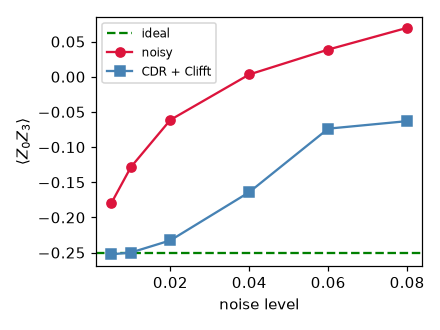
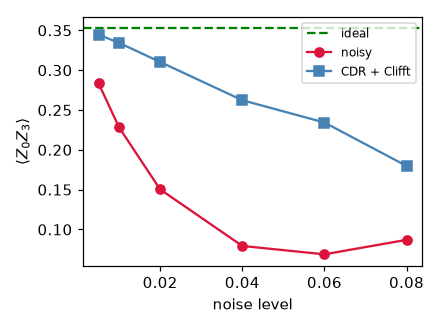
Rebuild CDR example in pure Cirq per review feedback
Per review, build the ansatz directly in Cirq in a {H, Rz, CNOT} gateset (only
non-Cliffords are Rz, per the user guide) instead of transpiling with Qiskit,
and drop the IBM framing. Use a 4-layer circuit, where the linear CDR fit is
well-conditioned, and add a note on the regime where that assumption holds.
Regenerate the thumbnail.

diff --git a/docs/source/examples/cdr_demo.md b/docs/source/examples/cdr_demo.md
@@ -12,7 +12,7 @@ kernelspec:
   name: python3
 ---
 
-```{tags} cdr, clifft, qiskit, cirq, intermediate
+```{tags} cdr, clifft, cirq, intermediate
 ```
 
 # Clifford data regression with the Clifft near-Clifford simulator
@@ -20,9 +20,8 @@ kernelspec:
 Clifford data regression (CDR) is an error mitigation technique that learns a
 correction from noisy circuit outputs to their ideal values by training on
 classically simulable near-Clifford circuits. In this tutorial, we run CDR
-end-to-end on a hardware-native variational circuit, using the Clifft
-near-Clifford simulator to provide the ideal training data needed for the
-regression.
+end-to-end on a layered variational circuit, using the Clifft near-Clifford
+simulator to provide the ideal training data needed for the regression.
 
 CDR occupies a different niche from other error mitigation methods. Zero-noise
 extrapolation (ZNE) estimates the zero-noise answer by executing the same circuit
@@ -38,68 +37,64 @@ natural fit for generating the reference data that CDR requires.
 
 ## Setup
 
-In addition to Mitiq and Cirq, this tutorial uses Qiskit (to build and transpile
-a hardware-native circuit) and Clifft (to simulate the near-Clifford training
-circuits used by CDR).
+In addition to Mitiq and Cirq, this tutorial uses Clifft to simulate the
+near-Clifford training circuits used by CDR.
 
 ```{code-cell}
 import cirq
 import clifft
 import matplotlib.pyplot as plt
 import numpy as np
-from qiskit import QuantumCircuit, transpile
 
 from mitiq import Observable, PauliString, cdr
-from mitiq.interface import convert_to_mitiq
 from mitiq.interface.mitiq_cirq import compute_density_matrix
 from mitiq.zne.scaling import fold_global
 
 N_QUBITS = 4
-N_LAYERS = 6
+N_LAYERS = 4
 NOISE = 0.02
 ```
 
 ## The circuit we want to run
 
-Our target circuit is a hardware-efficient ansatz consisting of alternating
-layers of single-qubit $R_y(\theta)$ rotations and a nearest-neighbor CNOT
-ladder. We use $R_y$ rotations because they directly affect measurements of
-$Z$-type observables: rotating a qubit around the $y$-axis changes its projection
-onto the $z$-axis, making observables such as $\langle Z_0 Z_3 \rangle$ sensitive
-to the variational parameters. The CNOT ladder then spreads those local rotations
-into multi-qubit correlations across the device.
+Our target circuit is a hardware-efficient ansatz: alternating layers of
+single-qubit rotations and a nearest-neighbor CNOT ladder. We build each rotation
+as $H \cdot R_z(\theta) \cdot H$, which rotates the qubit so that measurements of
+$Z$-type observables such as $\langle Z_0 Z_3 \rangle$ depend on the variational
+angle $\theta$. The CNOT ladder then spreads those local rotations into
+multi-qubit correlations across the register.
 
-To connect this abstract circuit to real hardware, we transpile it into IBM's
-native gate set `{rz, sx, cx}`. This decomposition exposes an important
-structural feature: after transpilation, the arbitrary $R_y$ rotations have been
-rewritten into sequences of `rz` and `sx` gates, while entanglement remains in
-the `cx` gates. Since `sx` (the $\sqrt{X}$ gate) and `cx` are Clifford
-operations, the only generic non-Clifford content left in the circuit resides in
-the continuous `rz` rotation angles. That separation is the key idea behind this
-tutorial: it is what allows CDR to generate near-Clifford training circuits by
-modifying a small number of non-Clifford rotations, and it is precisely the
-regime where a near-Clifford simulator such as Clifft can provide a substantial
-advantage over general-purpose simulation methods.
+CDR requires the circuit to be compiled into a gateset whose only non-Clifford
+gates are single-qubit $R_z$ rotations (see the [CDR guide](../guide/cdr.md)). We
+build the ansatz directly in such a gateset: the Hadamards and CNOTs are Clifford,
+so the only non-Clifford content lives in the continuous `rz` rotation angles.
+That separation is the key idea behind this tutorial — it is what lets CDR
+generate near-Clifford training circuits by adjusting a small number of
+non-Clifford rotations, and it is precisely the regime where a near-Clifford
+simulator such as Clifft provides an advantage over general-purpose simulation.
 
 ```{code-cell}
-def build_ansatz(n_qubits, n_layers, angles):
-    qc = QuantumCircuit(n_qubits)
+def build_ansatz(qubits, n_layers, angles):
+    circuit = cirq.Circuit()
     for layer in range(n_layers):
-        for q in range(n_qubits):
-            qc.ry(angles[layer][q], q)
-        for q in range(n_qubits - 1):
-            qc.cx(q, q + 1)
-    return qc
+        for i, q in enumerate(qubits):
+            circuit.append([cirq.H(q), cirq.rz(angles[layer][i]).on(q), cirq.H(q)])
+        for i in range(len(qubits) - 1):
+            circuit.append(cirq.CNOT(qubits[i], qubits[i + 1]))
+    return circuit
 
 
+qubits = cirq.LineQubit.range(N_QUBITS)
 rng = np.random.default_rng(42)
 angles = rng.uniform(-np.pi / 2, np.pi / 2, size=(N_LAYERS, N_QUBITS))
-qc = build_ansatz(N_QUBITS, N_LAYERS, angles)
-native = transpile(qc, basis_gates=["rz", "sx", "cx"], optimization_level=1)
-cirq_circuit = convert_to_mitiq(native)[0]
+cirq_circuit = build_ansatz(qubits, N_LAYERS, angles)
 
-print("logical gate counts:", dict(qc.count_ops()))
-print("native gate counts: ", dict(native.count_ops()))
+n_total = len(list(cirq_circuit.all_operations()))
+n_rz = sum(
+    1 for op in cirq_circuit.all_operations() if isinstance(op.gate, cirq.ZPowGate)
+)
+print(f"{n_total} gates total; {n_rz} are non-Clifford Rz rotations")
+print("(the H and CNOT gates are Clifford)")
 ```
 
 ## The observable, and the problem that noise causes
@@ -115,9 +110,9 @@ using two executors: a noisy executor with depolarizing noise and an ideal
 executor with noise disabled. Both return density matrices (hence the
 `-> np.ndarray` type hints), allowing Mitiq to compute expectation values
 directly. The output below shows the effect of noise clearly: the ideal
-correlation is substantially suppressed, with the noisy value retaining only a
-small fraction of the original signal. Recovering that lost correlation is
-exactly the task that CDR will take on in the next section.
+correlation is substantially suppressed, with the noisy value retaining only part
+of the original signal. Recovering that lost correlation is exactly the task that
+CDR will take on in the next section.
 
 ```{code-cell}
 obs = Observable(PauliString("ZIIZ"))
@@ -149,11 +144,11 @@ simulator for every training circuit, we can exploit the fact that these circuit
 live in a regime where specialized algorithms are particularly effective. Clifft
 is a simulator designed for exactly this setting {cite}`Chase_2026_Clifft`.
 
-To use Clifft, we first translate the transpiled Cirq circuit into Clifft's
-text-based circuit format. Since our native gate set consists only of `rz`, `sx`,
-and `cx`, the conversion is straightforward. Two implementation details are worth
-noting. First, Clifft expresses $R_Z$ rotations in half-turn units rather than
-radians; fortunately, Cirq already stores this quantity as `gate.exponent` for
+To use Clifft, we first translate the Cirq circuit into Clifft's text-based
+circuit format. Since our gateset consists only of `H`, `Rz`, and `CNOT`, the
+conversion is straightforward. Two implementation details are worth noting.
+First, Clifft expresses $R_Z$ rotations in half-turn units rather than radians;
+fortunately, Cirq already stores this quantity as `gate.exponent` for
 `ZPowGate`s. Second, Clifft and Cirq use opposite qubit-ordering conventions when
 constructing statevectors, so after simulation we reverse the tensor axes to
 match Cirq's ordering. These are purely representational differences—the
@@ -170,10 +165,10 @@ def to_clifft_text(circuit, qubits):
     lines = []
     for op in circuit.all_operations():
         g, qs = op.gate, op.qubits
-        if isinstance(g, cirq.ZPowGate):
+        if isinstance(g, cirq.HPowGate) and abs(g.exponent - 1) < 1e-9:
+            lines.append(f"H {idx[qs[0]]}")
+        elif isinstance(g, cirq.ZPowGate):
             lines.append(f"R_Z({g.exponent}) {idx[qs[0]]}")
-        elif isinstance(g, cirq.XPowGate) and abs(g.exponent - 0.5) < 1e-9:
-            lines.append(f"SQRT_X {idx[qs[0]]}")
         elif g == cirq.CNOT:
             lines.append(f"CX {idx[qs[0]]} {idx[qs[1]]}")
         else:
@@ -227,10 +222,10 @@ relying on a full density-matrix simulation to provide ideal training data, we
 use Clifft, which is specialized for the near-Clifford circuits generated during
 CDR's training phase. The output shows the learned correction in action: the
 mitigated estimate moves substantially closer to the ideal value, reducing the
-error by roughly an order of magnitude. The exact numbers will vary slightly with
-circuit parameters, but the qualitative result is the same—the noisy observable
-is systematically biased, and CDR learns a correction from classically simulable
-cousins of the target circuit.
+error by several times. The exact numbers will vary with circuit parameters, but
+the qualitative result is the same—the noisy observable is systematically biased,
+and CDR learns a correction from classically simulable cousins of the target
+circuit.
 
 ```{code-cell}
 mitigated = cdr.execute_with_cdr(
@@ -301,6 +296,14 @@ plt.legend()
 plt.show()
 ```
 
+CDR assumes the relationship between noisy and ideal expectation values is simple
+enough for the regression to capture — here, a linear fit. That assumption holds
+well in the regime used above, but it is not guaranteed. For deeper circuits,
+strong noise can compress the noisy values into a narrow range, making the linear
+fit steep enough to *overshoot* the true value even when the target lies inside
+the training data. Choosing a circuit and noise range where the linear
+approximation is valid is part of applying CDR well.
+
 ## Variable-noise CDR (vnCDR)
 
 Variable-noise CDR (vnCDR) {cite}`Lowe_2021_PRR` extends the basic idea by
@@ -339,13 +342,13 @@ print(f"vnCDR error:     {abs(vncdr - ideal_val):.4f}")
 
 ## Conclusion
 
-In this tutorial, we ran Clifford data regression end-to-end on a hardware-native
+In this tutorial, we ran Clifford data regression end-to-end on a layered
 variational circuit and used Clifft as the simulator responsible for evaluating
-the near-Clifford training circuits. After transpilation exposed the circuit's
-non-Clifford content as a collection of continuous `rz` rotations, CDR learned a
-correction from noisy expectation values to ideal ones and substantially reduced
-the observable error. We then examined how that correction behaves as noise
-increases and compared standard CDR with its variable-noise extension.
+the near-Clifford training circuits. Because we built the circuit so that its
+only non-Clifford gates are `rz` rotations, CDR could learn a correction from
+noisy expectation values to ideal ones and substantially reduce the observable
+error. We then examined how that correction behaves as noise increases and
+compared standard CDR with its variable-noise extension.
 
 There are several natural directions to explore from here. Increasing the circuit
 depth or qubit count makes the near-Clifford structure increasingly important and
